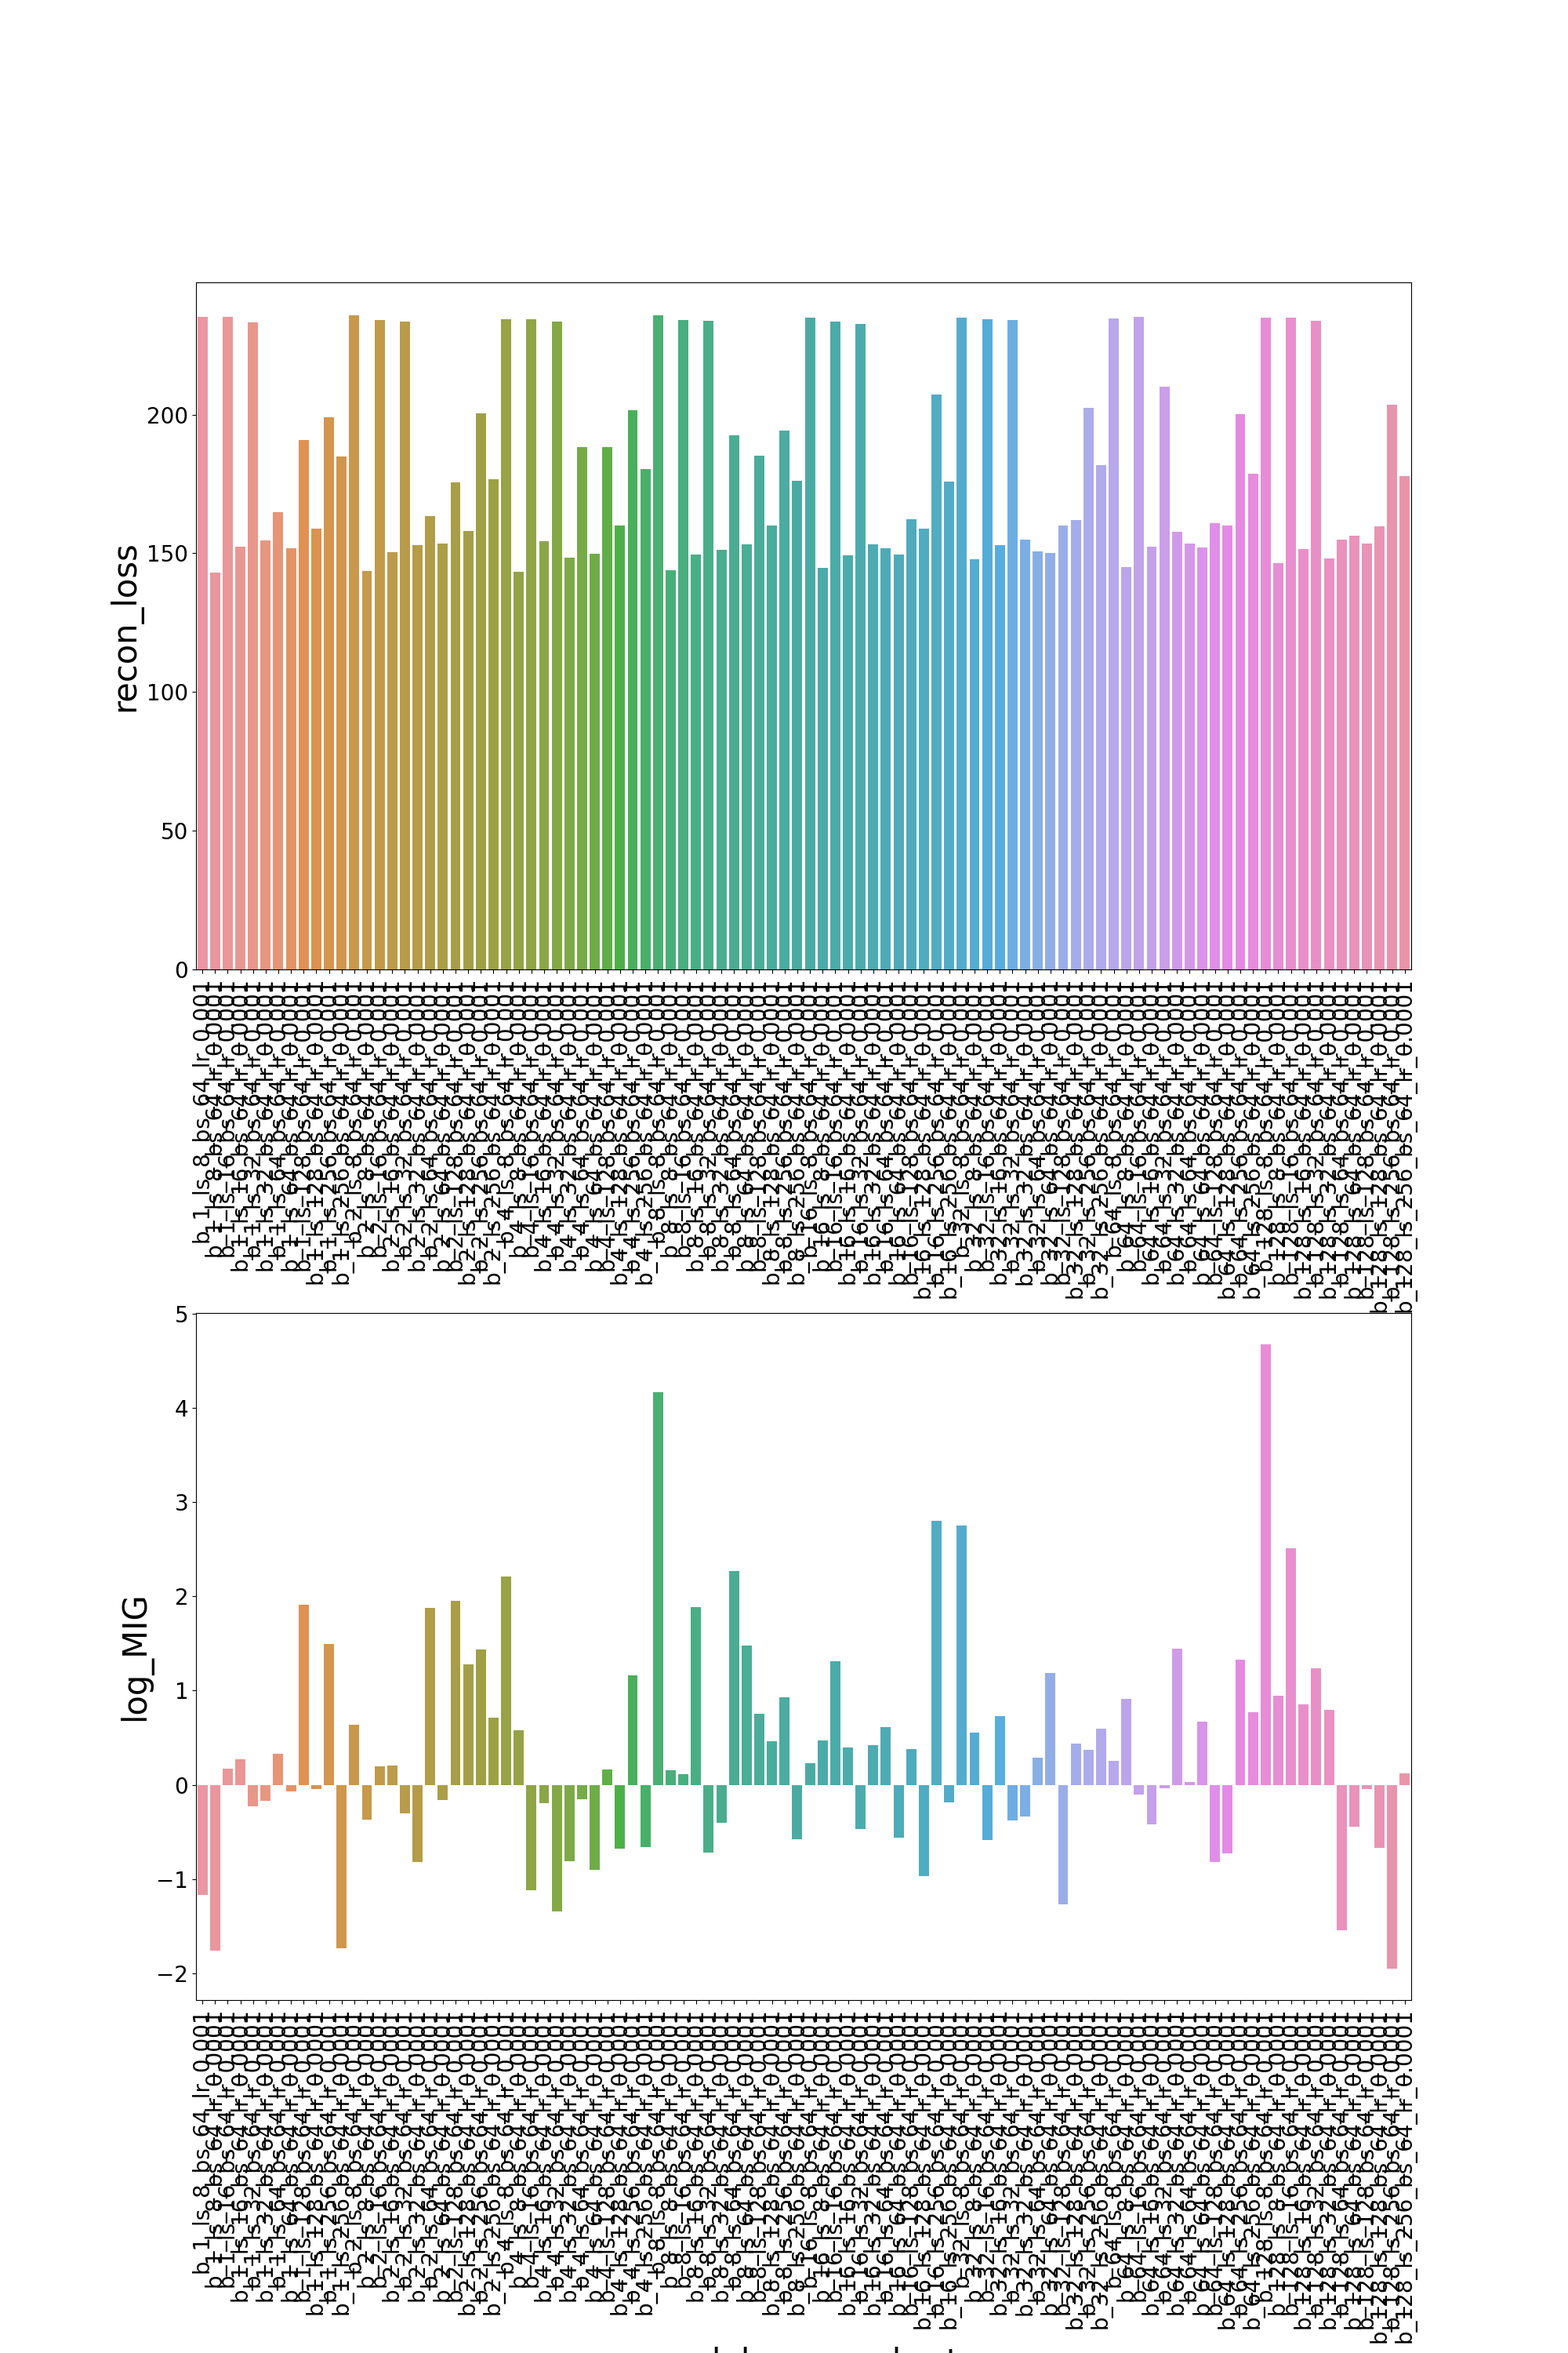
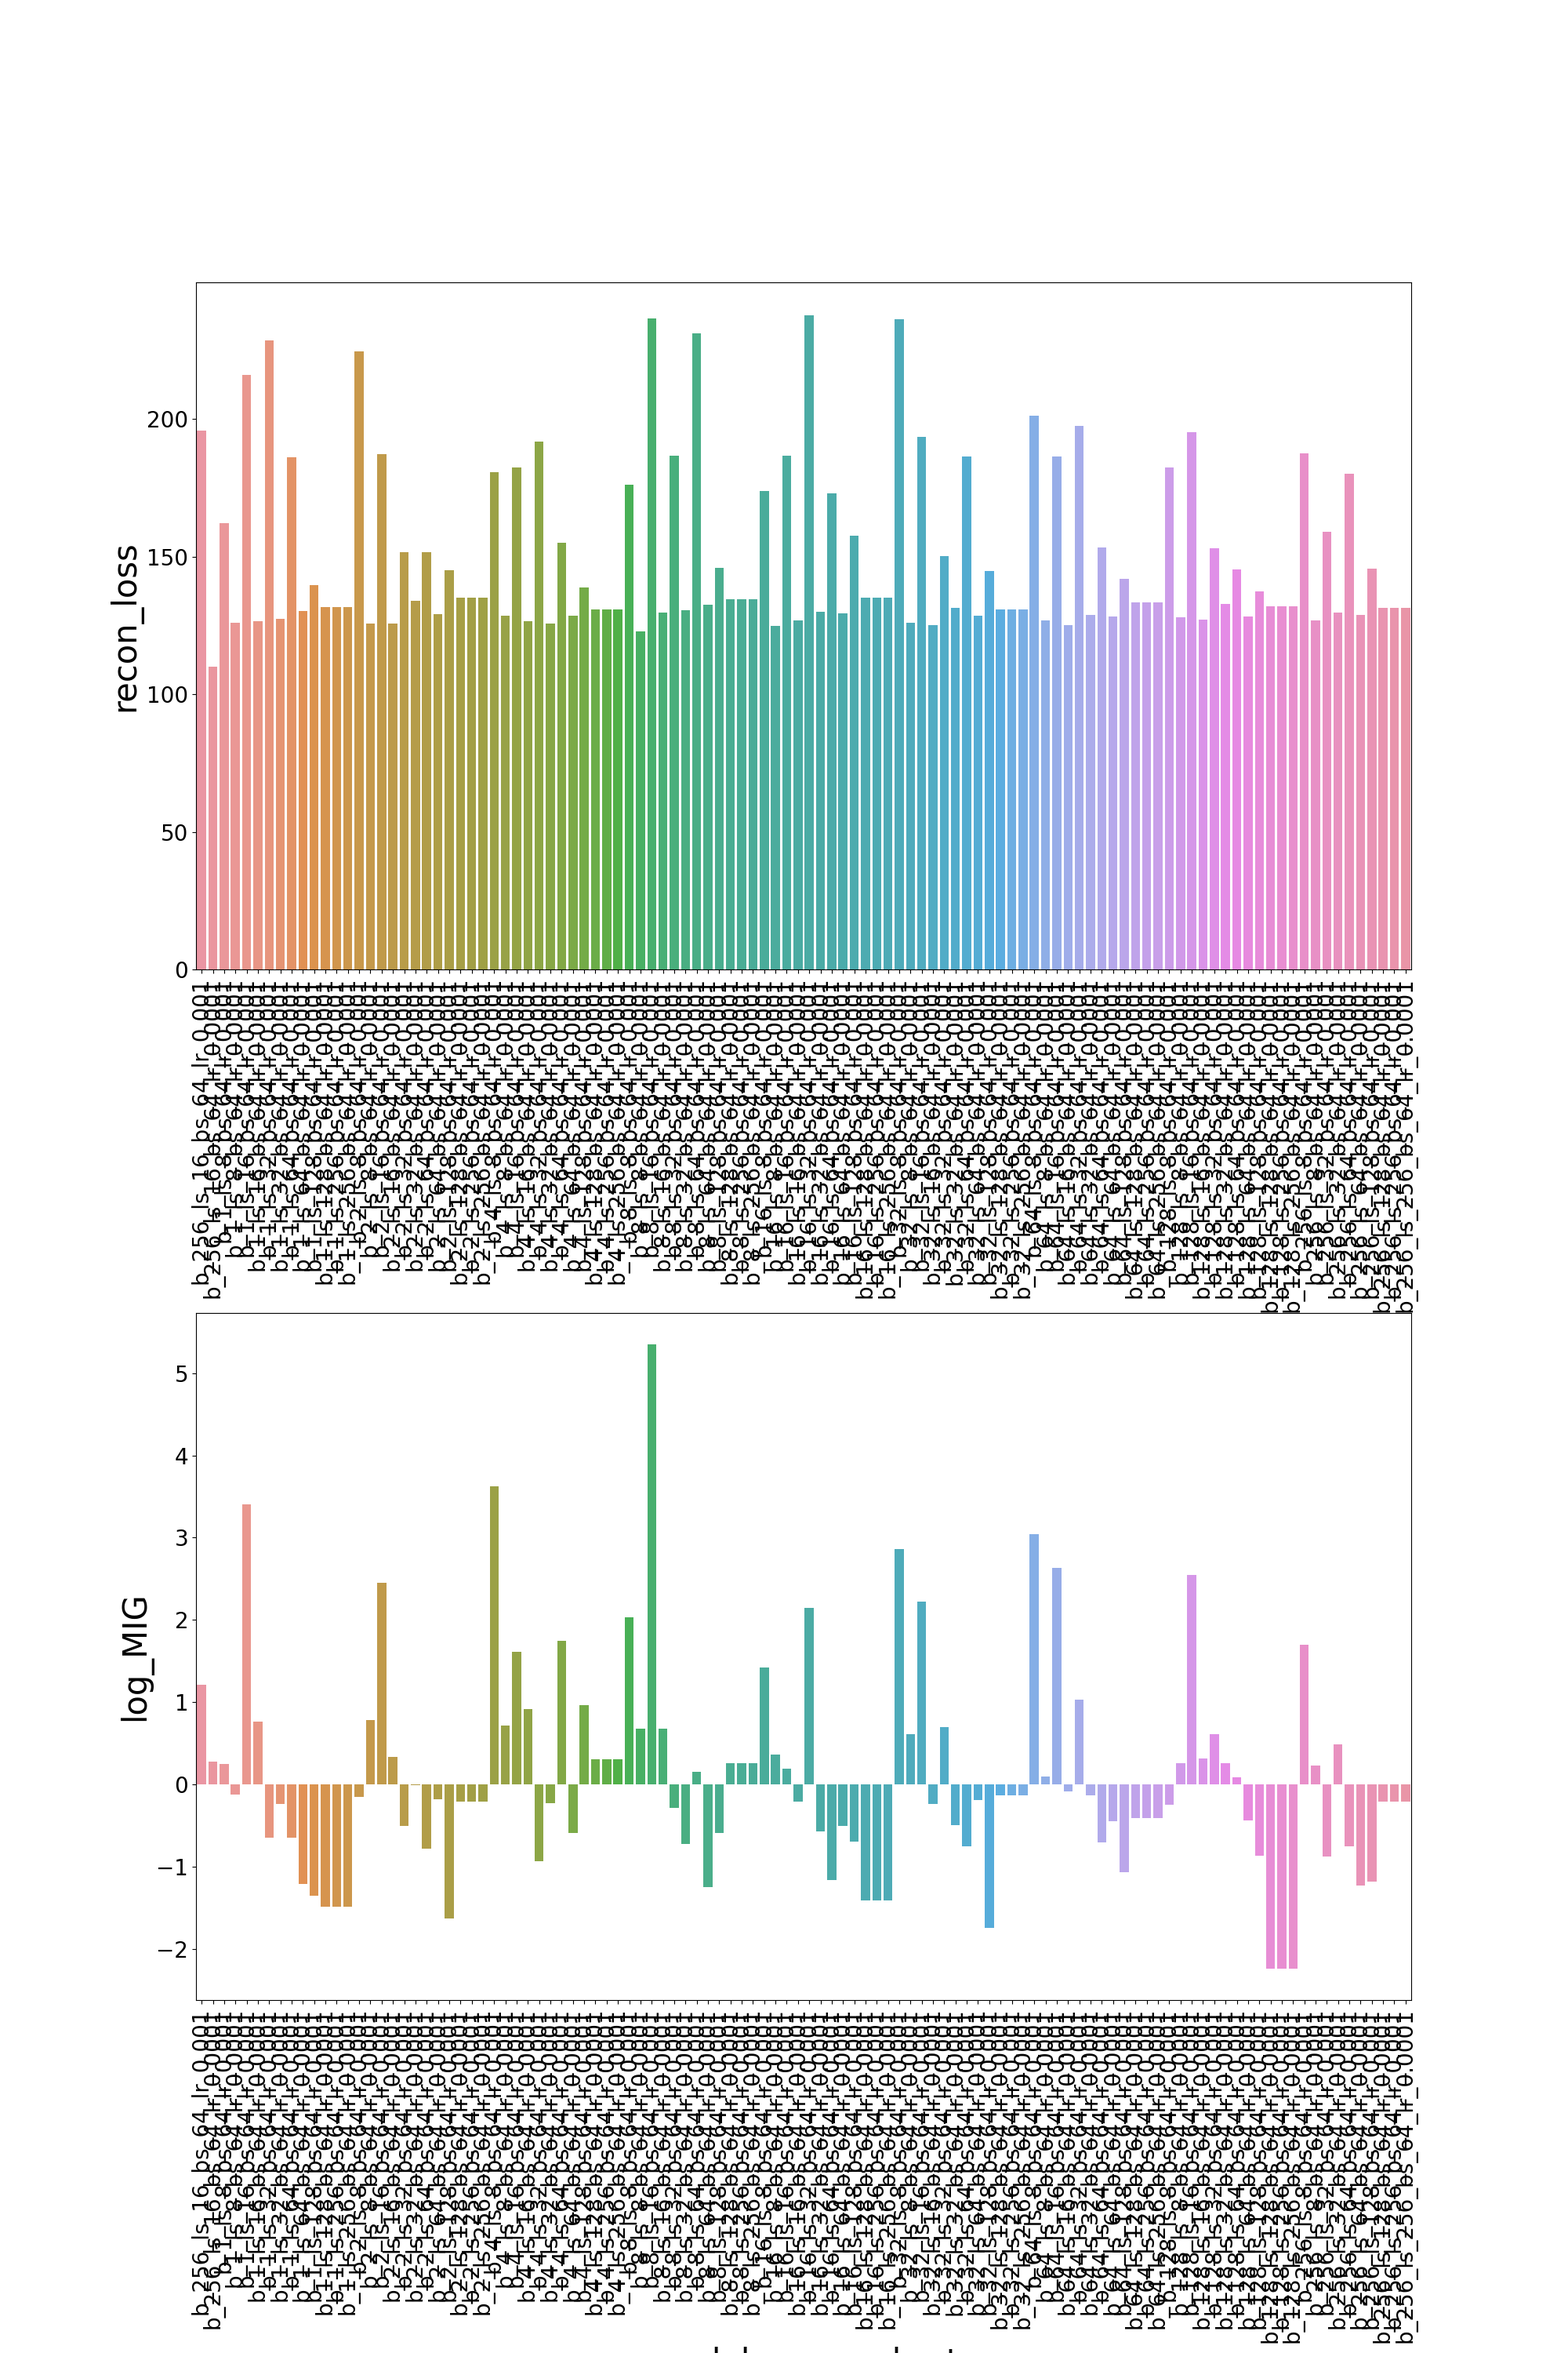
updates

Changed region(s): [[0.093, 0.124, 0.899, 1.0]]

diff --git a/analysis/clustrering.py/clustering.py b/analysis/clustrering.py/clustering.py
@@ -8,6 +8,7 @@ import matplotlib.pyplot as plt
 from scipy.spatial.distance import cosine
 import string
 
+import pandas as pd
 
 from generate_activations import generate_activations
 from sim_and_dendro import plot_simmat_and_dendro
@@ -23,6 +24,8 @@ dist_model_unigram_lower, unigram_lower = plot_simmat_and_dendro(origin="model",
 dist_model_unigram_upper, unigram_upper = plot_simmat_and_dendro(origin="model", n_letters=1, case="upper")
 dist_model_bigram_lower, bigram_lower = plot_simmat_and_dendro(origin="model", n_letters=2, case="lower")
 dist_model_bigram_upper, bigram_upper = plot_simmat_and_dendro(origin="model", n_letters=2, case="upper")
+
+print(unigram_lower)
 
 # human_lower = squareform(d_human[0])
 # human_upper = squareform(d_human[1])
@@ -42,19 +45,49 @@ embs_dist_lower = encode_4_bytes_dist(bigram_lower, unigram_lower, dist_model_un
 embs_dist_upper = encode_4_bytes_dist(bigram_upper, unigram_upper, dist_model_unigram_upper)
 
 # Run models
-print("\n\nResults for lowercase model using 4-bytes encoding")
-run_model(dist_model_bigram_lower, embs4_lower)
-print("\n\nResults for uppercase model using 4-bytes encoding")
-run_model(dist_model_bigram_upper, embs4_upper)
+d_4_bytes_onehot_lower = run_model(dist_model_bigram_lower, embs4_lower, "4 bytes lower")
+d_4_bytes_onehot_upper = run_model(dist_model_bigram_upper, embs4_upper, "4 bytes upper")
 
-print("\n\nResults for lowercase model using 20-bytes encoding")
-run_model(dist_model_bigram_lower, embs20_lower)
-print("\n\nResults for uppercase model using 20-bytes encoding")
-run_model(dist_model_bigram_upper, embs20_upper)
+d_20_bytes_onehot_lower = run_model(dist_model_bigram_lower, embs20_lower, "20 bytes lower")
+d_20_bytes_onehot_upper = run_model(dist_model_bigram_upper, embs20_upper, "20 bytes upper")
 
-print("\n\nResults for lowercase model using 4-bytes-dist encoding")
-run_model(dist_model_bigram_lower, embs_dist_lower)
-print("\n\nResults for uppercase model using 4-bytes-dist encoding")
-run_model(dist_model_bigram_upper, embs_dist_upper)
+d_4_bytes_dist_lower = run_model(dist_model_bigram_lower, embs_dist_lower, "4 bytes dist lower")
+d_4_bytes_dist_upper = run_model(dist_model_bigram_upper, embs_dist_upper, "4 bytes dist upper")
+
+
+df = pd.DataFrame.from_dict(d_4_bytes_onehot_lower)
+df = df.append(pd.DataFrame.from_dict(d_4_bytes_onehot_upper))
+df = df.append(pd.DataFrame.from_dict(d_20_bytes_onehot_lower))
+df = df.append(pd.DataFrame.from_dict(d_20_bytes_onehot_upper))
+df = df.append(pd.DataFrame.from_dict(d_4_bytes_dist_lower))
+df = df.append(pd.DataFrame.from_dict(d_4_bytes_dist_upper))
+
+df_metrics = df.drop(["coef_mean", "coef_std"],axis=1)
+df_mean = pd.melt(df_metrics[["name", "r2_mean", "rho_mean"]], id_vars=['name'], var_name='Variable', value_name='Value')
+df_mean["Variable"] = df_mean["Variable"].str.replace(r"_.*$","")
+df_std  = pd.melt(df_metrics[["name", "r2_std","rho_std"]], id_vars=['name'], var_name='Variable', value_name='Value')
+df_std["Variable"] = df_std["Variable"].str.replace(r"_.*$","")
+df_metrics = df_mean.merge(df_std, on=["name","Variable"])
+
+
+import seaborn as sns
+# Create a bar plot using Seaborn
+plt.figure(figsize=(10, 6))
+sns.set_style("whitegrid")
+colors = sns.color_palette("Set1", n_colors=len(df_metrics['Variable'].unique()))
+ax = sns.barplot(data=df_metrics, x='name', y='Value_x', hue='Variable', palette=colors)
+x_coords = [p.get_x() + 0.5 * p.get_width() for p in ax.patches]
+y_coords = [p.get_height() for p in ax.patches]
+ax.errorbar(x=x_coords, y=y_coords, yerr=df_metrics["Value_y"], fmt="none", c="k")
+
+plt.xlabel('model')
+plt.ylabel('Value')
+plt.title('Bar Plot with Different Colors for Each Column')
+
+# Show the legend
+plt.legend(title='Variable')
+
+# Show the plot
+plt.show()
 
 pass

diff --git a/analysis/clustrering.py/run_models.py b/analysis/clustrering.py/run_models.py
@@ -1,27 +1,51 @@
 from sklearn import linear_model
-from sklearn.model_selection import train_test_split
+from sklearn.model_selection import train_test_split, KFold, cross_val_score
 from sklearn.metrics import mean_squared_error, r2_score
 from scipy import stats
 from scipy.spatial.distance import squareform
+import numpy as np
 
 
-def run_model(model, embs):
+def run_model(model, embs, name):
     if len(model.shape) == 2: # matrix
         model = squareform(model) # upper triangle list
 
     y = model.reshape(-1, 1)
-    X = embs
-    X_train, X_test, y_train, y_test = train_test_split(X, y, test_size=0.2, random_state=42)
+    X = np.array(embs)
 
-    regr = linear_model.Ridge()
-    regr.fit(X_train, y_train)
-    y_pred = regr.predict(X_test)
+    kf = KFold(n_splits=5)
 
-    # The coefficients
-    print("Coefficients: ", regr.coef_)
-    # The mean squared error
-    print("Mean squared error: %.2f" % mean_squared_error(y_test, y_pred))
-    # The coefficient of determination: 1 is perfect prediction
-    print("Coefficient of determination: %.2f" % r2_score(y_test, y_pred))
-    # The rho spearman correlation
-    print("Spearman rho: %.2f" % stats.spearmanr(y_test, y_pred)[0])
+    coef_10 = []
+    r2_10 = []
+    rho_10 = []
+    for train_index, test_index in kf.split(X):
+        regr = linear_model.Ridge()
+        X_train, X_test = X[train_index], X[test_index]
+
+        y_train, y_test = y[train_index], y[test_index]
+        regr.fit(X_train, y_train)
+        y_pred = regr.predict(X_test)
+
+        coef = regr.coef_
+        # print("Coefficients: ", coef)
+
+        r2 = r2_score(y_test, y_pred)
+        # print("Coefficient of determination: %.2f" % r2)
+
+        rho = stats.spearmanr(y_test, y_pred)[0]
+        # print("Spearman rho: %.2f" % rho)
+
+        coef_10.append(coef)
+        r2_10.append(r2)
+        rho_10.append(rho)
+
+    d = dict([("name", [name]),
+             ("coef_mean", np.mean(coef_10, axis=0).tolist() ),
+             ("coef_std", np.std(coef_10, axis=0).tolist()),
+             ("r2_mean", [np.mean(r2_10)]),
+             ("r2_std", [np.std(r2_10)]),
+             ("rho_mean", [np.mean(rho_10)]),
+             ("rho_std", [np.std(rho_10)])]
+            )
+
+    return d

diff --git a/analysis/clustrering.py/encode.py b/analysis/clustrering.py/encode.py
@@ -58,7 +58,8 @@ def encode_letters_by_4_bytes(letters):
 
 
 def encode_4_bytes_dist(letters_bigram, letters_unigram, dist_unigrams ):
-
+    # make sure the distance is in the correct direction
+    # scale in the range 0-1 and flip it -> convert to simmilarity
     pairs = list(combinations(letters_bigram, 2))
     n_bytes = 4
     embs = []
@@ -70,10 +71,10 @@ def encode_4_bytes_dist(letters_bigram, letters_unigram, dist_unigrams ):
         index_C = letters_unigram.index(pair[1][0])
         index_D = letters_unigram.index(pair[1][1])
 
-        emb[0] = dist_unigrams[index_A][index_C]
-        emb[1] = dist_unigrams[index_A][index_D]
-        emb[2] = dist_unigrams[index_B][index_C]
-        emb[3] = dist_unigrams[index_B][index_D]
+        emb[0] = 1-dist_unigrams[index_A][index_C] # Convert distance to similarity
+        emb[1] = 1-dist_unigrams[index_A][index_D]
+        emb[2] = 1-dist_unigrams[index_B][index_C]
+        emb[3] = 1-dist_unigrams[index_B][index_D]
 
         embs.append(emb)
     return embs

diff --git a/utils/visualize.py b/utils/visualize.py
@@ -361,10 +361,18 @@ class Visualizer():
                 all_cols[j].append(grid[:, [(j + 1) * padding_width + j * width_col + i
                                             for i in range(width_col)], :])
 
+
         pad_values = (1 - get_background(self.dataset)) * 255
+
+        # Plot 1 column of the gif in a figure where each column is a frame of the gif
+        img_one_sample = [[x[12] for x in all_cols]]*len(all_cols)
+        img_one_sample = [concatenate_pad(cols, pad_size=2, pad_values=pad_values, axis=1)
+                          for cols in img_one_sample]
+        filename = os.path.join(self.model_dir, "img_traversals.gif")
+        imageio.mimsave(filename, img_one_sample, fps=FPS_GIF)
+
         all_cols = [concatenate_pad(cols, pad_size=2, pad_values=pad_values, axis=1)
                     for cols in all_cols]
-
         filename = os.path.join(self.model_dir, PLOT_NAMES["gif_traversals"])
         imageio.mimsave(filename, all_cols, fps=FPS_GIF)
 

diff --git a/main_viz.py b/main_viz.py
@@ -19,7 +19,8 @@ def parse_arguments(args_to_parse):
     Parameters
     ----------
     args_to_parse: list of str
-        Arguments to parse (splitted on whitespaces).
+        Arguments to parse (splitte
+        d on whitespaces).
     """
     description = "CLI for plotting using pretrained models of `disvae`"
     parser = argparse.ArgumentParser(description=description,

diff --git a/stimgen/stimgen_dmetric.py b/stimgen/stimgen_dmetric.py
@@ -52,6 +52,7 @@ def generate_ngrams(unigrams, n=1):
 
     if n == 2:
         unigrams = ["a", "k", "l", "m",  "v"]
+        # unigrams = ["a", "d", "h", "i", "m", "n", "t"] # awraval
 
     res = []
     if n >= 1:
